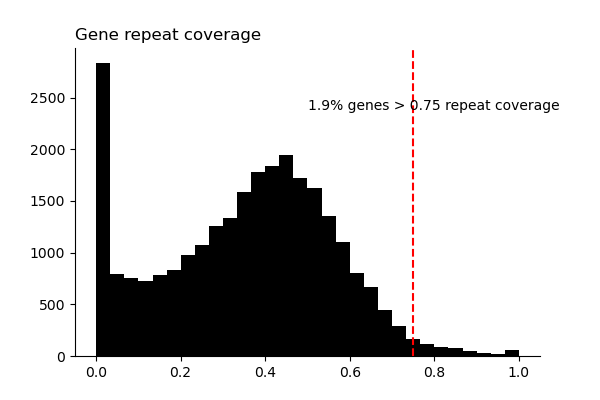
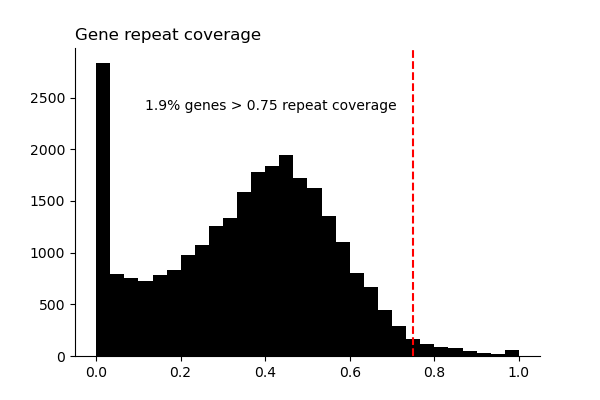
results: repeat cov hist move text

Changed region(s): [[0.24, 0.24, 0.93, 0.3]]

diff --git a/results/2026_09-gene_repeat_coverage/hist_repeat_cov.py b/results/2026_09-gene_repeat_coverage/hist_repeat_cov.py
@@ -19,7 +19,7 @@ def plot(x,text):
     ax.spines['right'].set_visible(False)
     ax.set_title(args.title,loc='left')
     ax.axvline(args.threshold, linestyle='--', color='red')
-    ax.annotate(text,xy=(0.5,0.8),xycoords="axes fraction")
+    ax.annotate(text,xy=(0.15,0.8),xycoords="axes fraction")
     fig.savefig(args.output)
 
 def main():
